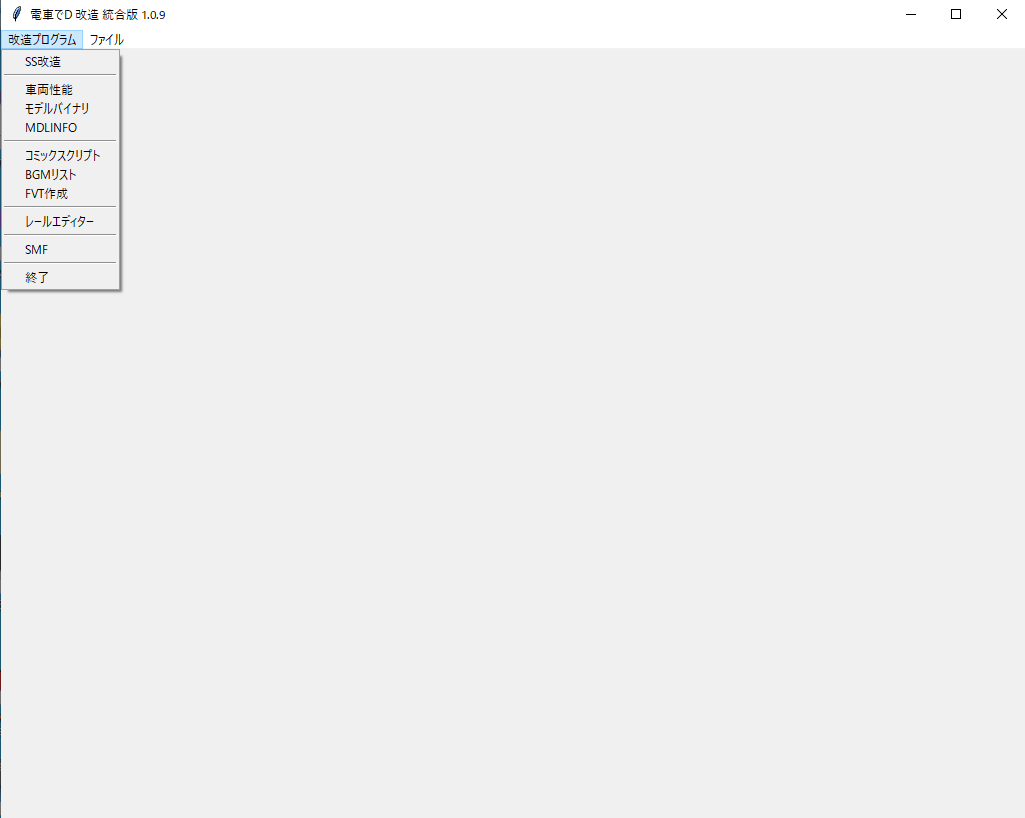
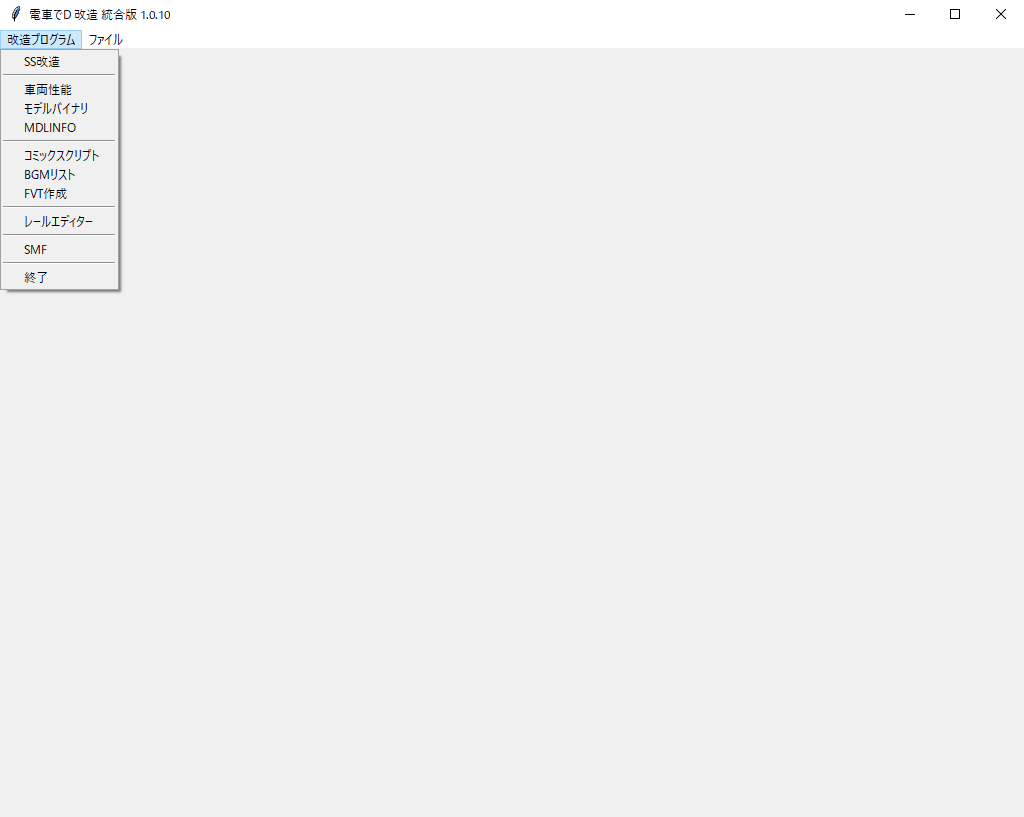
csv対応

Changed region(s): [[0.0, 0.0, 0.1562, 0.3672]]

diff --git a/program/ssUnity/ssUnity.py b/program/ssUnity/ssUnity.py
@@ -153,7 +153,7 @@ def loadAndSave():
     result = mb.askquestion(title="確認", message="denファイルを上書きします\nそれでもよろしいでしょうか？\n(権限問題で上書き失敗することもあります)", icon="warning")
     if result == "no":
         return
-    
+
     try:
         if fileType != "AudioClip":
             with open(file_path, "rb") as f:
@@ -222,11 +222,16 @@ def csvLoadAndSave():
         return
     csvLines = None
     try:
-        f = codecs.open(file_path, "r", "utf-8-sig", "strict")
-        csvLines = f.readlines()
-        f.close()
-
+        try:
+            f = codecs.open(file_path, "r", "utf-8-sig", "strict")
+            csvLines = f.readlines()
+            f.close()
+        except UnicodeDecodeError:
+            f = codecs.open(file_path, "r", "shift-jis", "strict")
+            csvLines = f.readlines()
+            f.close()
         if not decryptFile.checkCsv(csvLines):
+            decryptFile.printError()
             mb.showerror(title="エラー", message=decryptFile.error)
         if not decryptFile.saveCsv(num):
             decryptFile.printError()

diff --git a/main.py b/main.py
@@ -277,7 +277,7 @@ selectedProgram = None
 maxMenubarLen = None
 
 root = tkinter.Tk()
-root.title("電車でD 改造 統合版 1.0.9")
+root.title("電車でD 改造 統合版 1.0.10")
 root.geometry("1024x768")
 
 menubar = tkinter.Menu(root)
